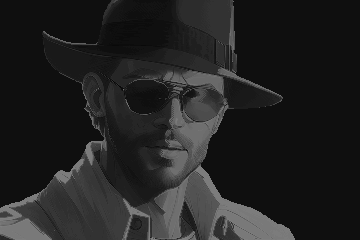
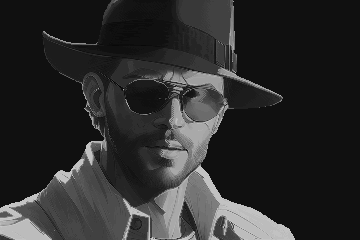
changed incoming call logic

diff --git a/incomingCallWindow.js b/incomingCallWindow.js
@@ -1,9 +1,34 @@
+
+
 class IncomingCallWindow extends GsWindow{
 
     onWindowPreload(){
         this.img = loadImage('assets/caller.png');
         this.grad = loadShader('assets/commcall.vert', 'assets/commcall.frag');
-
+        //create a default speaker:
+        let speaker = new Speaker('assets/caller.png', 'speaker',
+            ["Hey.", "Grater.", "*Cough*",
+             "You there?", "How's that *business* going?", 'I hope you are not slacking off.',
+             'Making progress, are we?', 'I need you to get it done ASAP.',
+             'You will be paid.', 'I will be waiting.', 'Goodbye.'],
+            //holy shit this will be a 11x11 matrix.
+            [
+                [0, 0, 0, 1, 1, 1, 0, 0, 0, 0, 0], //Hey.
+                [0, 0, 0, 1, 1, 1, 0, 0, 0, 0, 0], //Grater.
+                [0, 0, 0, 1, 1, 1, 0, 0, 0, 0, 0], //*Cough*
+                [0, 0, 0, 0, 1, 1, 1, 1, 0, 0, 0], //You there?
+                [0, 0, 0, 0, 0, 1, 0, 1, 0, 0, 0], //How's that *business* going?
+                [0, 0, 0, 0, 0, 0, 0, 1, 1, 1, 0], //I hope you are not slacking off.
+                [0, 0, 0, 0, 0, 0, 0, 1, 0, 1, 0], //Making progress, are we?
+                [0, 0, 0, 0, 0, 0, 0, 0, 1, 1, 1], //I need you to get it done ASAP.
+                [0, 0, 0, 0, 0, 0, 0, 0, 0, 0, 1], //You will be paid.
+                [0, 0, 0, 0, 0, 0, 0, 0, 0, 0, 1], //I will be waiting.
+                [0, 0, 0, 0, 0, 0, 0, 0, 0, 0, 0], //Goodbye.
+            ],
+            [0, 1, 2]
+        );
+        this.speaker = speaker;
+        this.speakerText = speaker.getCurrentText();
     }
     onWindowReady(){
         //load in some random images?
@@ -19,7 +44,9 @@ class IncomingCallWindow extends GsWindow{
         this.posX = posX;
         this.posY = posY;
         this.lifespan = 0;
+        this.fractLifespan = 0;
         this.buffer = createGraphics(this.sizeX, this.sizeY, WEBGL);
+        //this.buffer.textFont("consolas");
         this.windowState = "NORMAL";
     }
 
@@ -31,20 +58,94 @@ class IncomingCallWindow extends GsWindow{
         this.drawCaller();
         this.buffer.pop();
         this.renderBuffer();
+        push();
+        textAlign(CENTER, CENTER);
+        textSize(12);
+        textStyle(BOLD);
+        fill(themeStyle.primaryColor);
+        text(this.speakerText, this.sizeX * 0.5, this.sizeY * 0.8);
+        pop();
         //image(this.buffer, 0, 0, this.sizeX, this.sizeY);
     }
 
     drawCaller(){
         this.buffer.shader(this.grad)
-        this.grad.setUniform('colorCenter', [1, 0, 0]);
-        this.grad.setUniform('colorBackground', [0, 1, 0]);
-        this.grad.setUniform('offset', [sin(millis() / 2000), 1]);
+        this.grad.setUniform('uSampler', this.img)
+        this.grad.setUniform('tint', normalizeColors(themeStyle.primaryColor))
+        this.grad.setUniform('time', this.fractLifespan)
+        this.grad.setUniform('windowHeight', this.sizeY * 2)
         this.buffer.quad(-1, -1, 1, -1, 1, 1, -1, 1);
-        //this.buffer.tint(themeStyle.primaryColor);
-        //this.buffer.image(this.img, -this.sizeX * 0.5, -this.sizeY * 0.5)
+        //no text in webgl!
+        //we have to overlay the text on top of the buffer.
+
     }
 
     update(dt){
         super.update(dt);
+        this.fractLifespan += dt;
+        if(this.fractLifespan > 3.1415926){
+            this.fractLifespan -= 3.1415926;
+            this.speakerText = this.speaker.nextLine()
+            if(this.speakerText === "")
+                this.speaker.startOver();
+        }
     }
+}
+
+class Speaker{
+    constructor(imgPath, name, texts, matrix, validStarts) {
+        this.img = loadImage(imgPath);
+        this.name = name;
+        this.texts = texts;
+        this.markovMatrix = this._computeMarkovChain(matrix)
+        this.validStarts = validStarts;
+        //pick a random start in the array of validStarts
+        this.startOver();
+    }
+
+    _computeMarkovChain(matrix){
+        //create a new array:
+        let newMatrix = [];
+        for(let i = 0; i < matrix.length; i++){
+            //calculate the cumulative distribution function:
+            let cdf = [];
+            let sum = 0;
+            for(let j = 0; j < matrix[i].length; j++){
+                sum += matrix[i][j];
+                cdf.push(sum);
+            }
+            //second pass to normalize:
+            for(let j = 0; j < matrix[i].length; j++){
+                cdf[j] /= sum;
+            }
+            newMatrix.push(cdf);
+        }
+        return newMatrix;
+    }
+
+    getCurrentText(){
+        return this.texts[this.validStarts[this.currentIndex]];
+    }
+
+    nextLine(){
+        //read from the markov matrix:
+        let r = Math.random();
+        let cdf = this.markovMatrix[this.currentIndex];
+        let previousCdf = 0;
+        for(let i = 0; i < cdf.length; i++){
+            //if greater than the previous cdf but less than this one, we have a winner!
+            if(r >= previousCdf && r < cdf[i]){
+                this.currentIndex = i;
+                return this.texts[this.currentIndex];
+            }
+            previousCdf = cdf[i];
+        }
+        return "";//nothing found!
+    }
+
+    startOver(){
+        this.currentIndex = Math.floor(Math.random() * this.validStarts.length);
+    }
+
+
 }

diff --git a/gameOfLifeWindow.js b/gameOfLifeWindow.js
@@ -4,7 +4,7 @@ class GameOfLifeWindow extends GsWindow{
         //create grids, game of life.
         this.cellSize = 10;
         this.timeUntilNextStep = 0;
-        this.stepTime = 0.1;
+        this.stepTime = 0.05;
         this.cellCountX = floor(this.sizeX / this.cellSize);
         this.cellCountY = floor(this.sizeY / this.cellSize);
         //two buffers, flattened.

diff --git a/helper.js b/helper.js
@@ -23,3 +23,11 @@ function mulColorArray(c1, cs){
         c1[2] * cs
     ]
 }
+
+function normalizeColors(c1){
+    return[
+        c1[0] / 256.0,
+        c1[1] / 256.0,
+        c1[2] / 256.0
+    ]
+}
